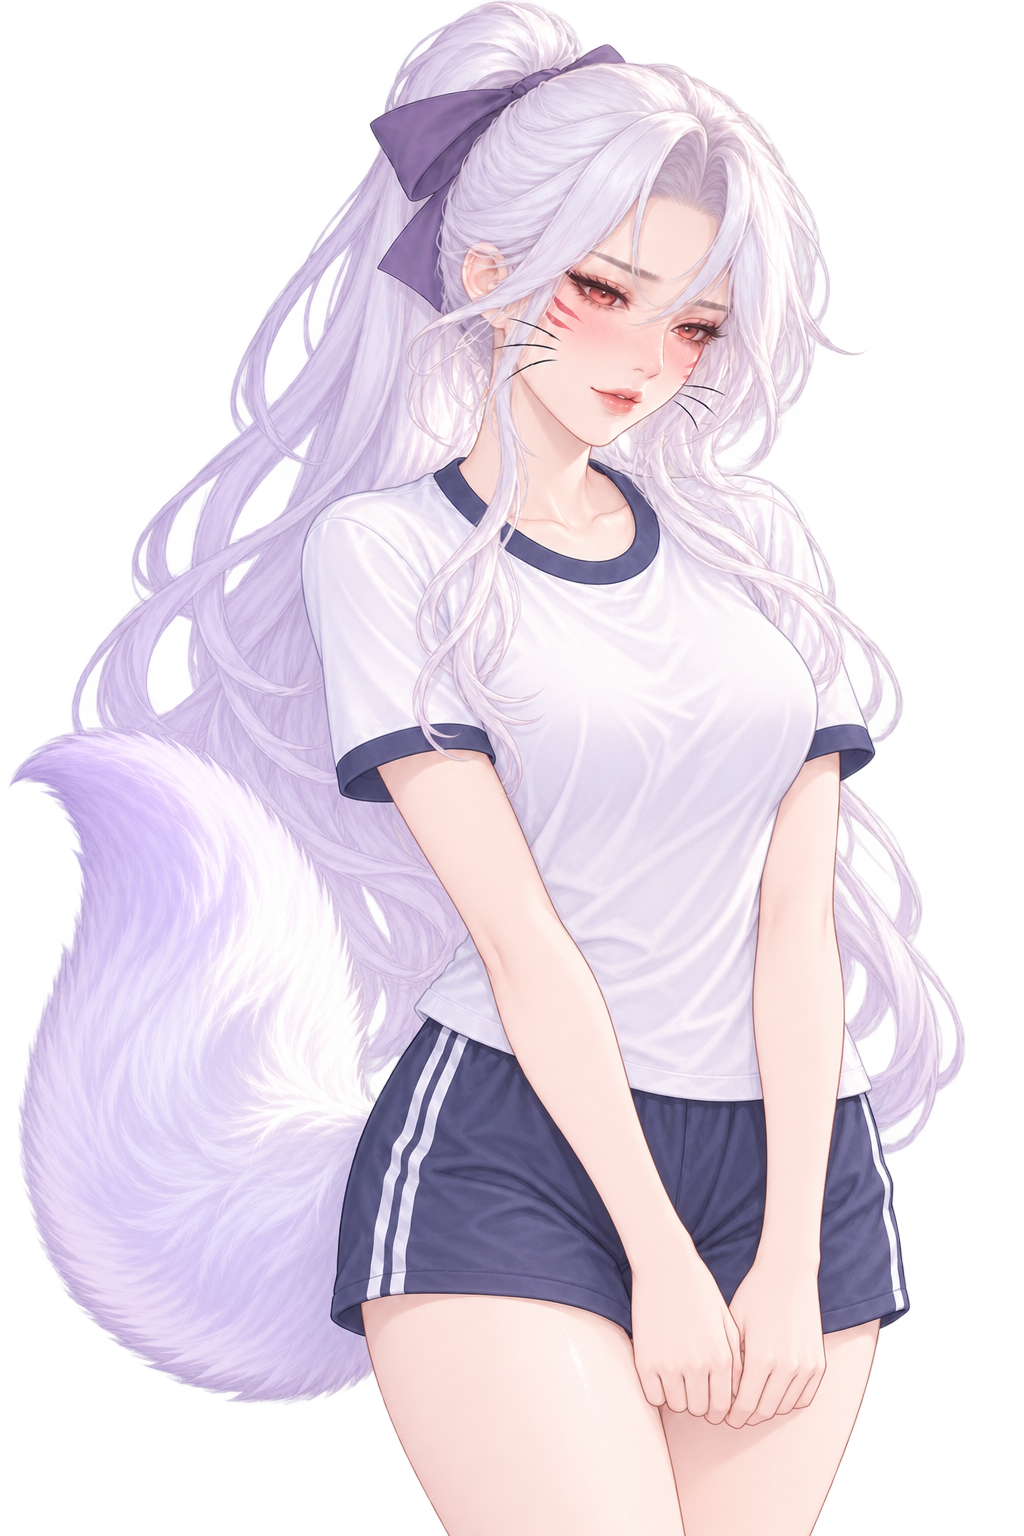
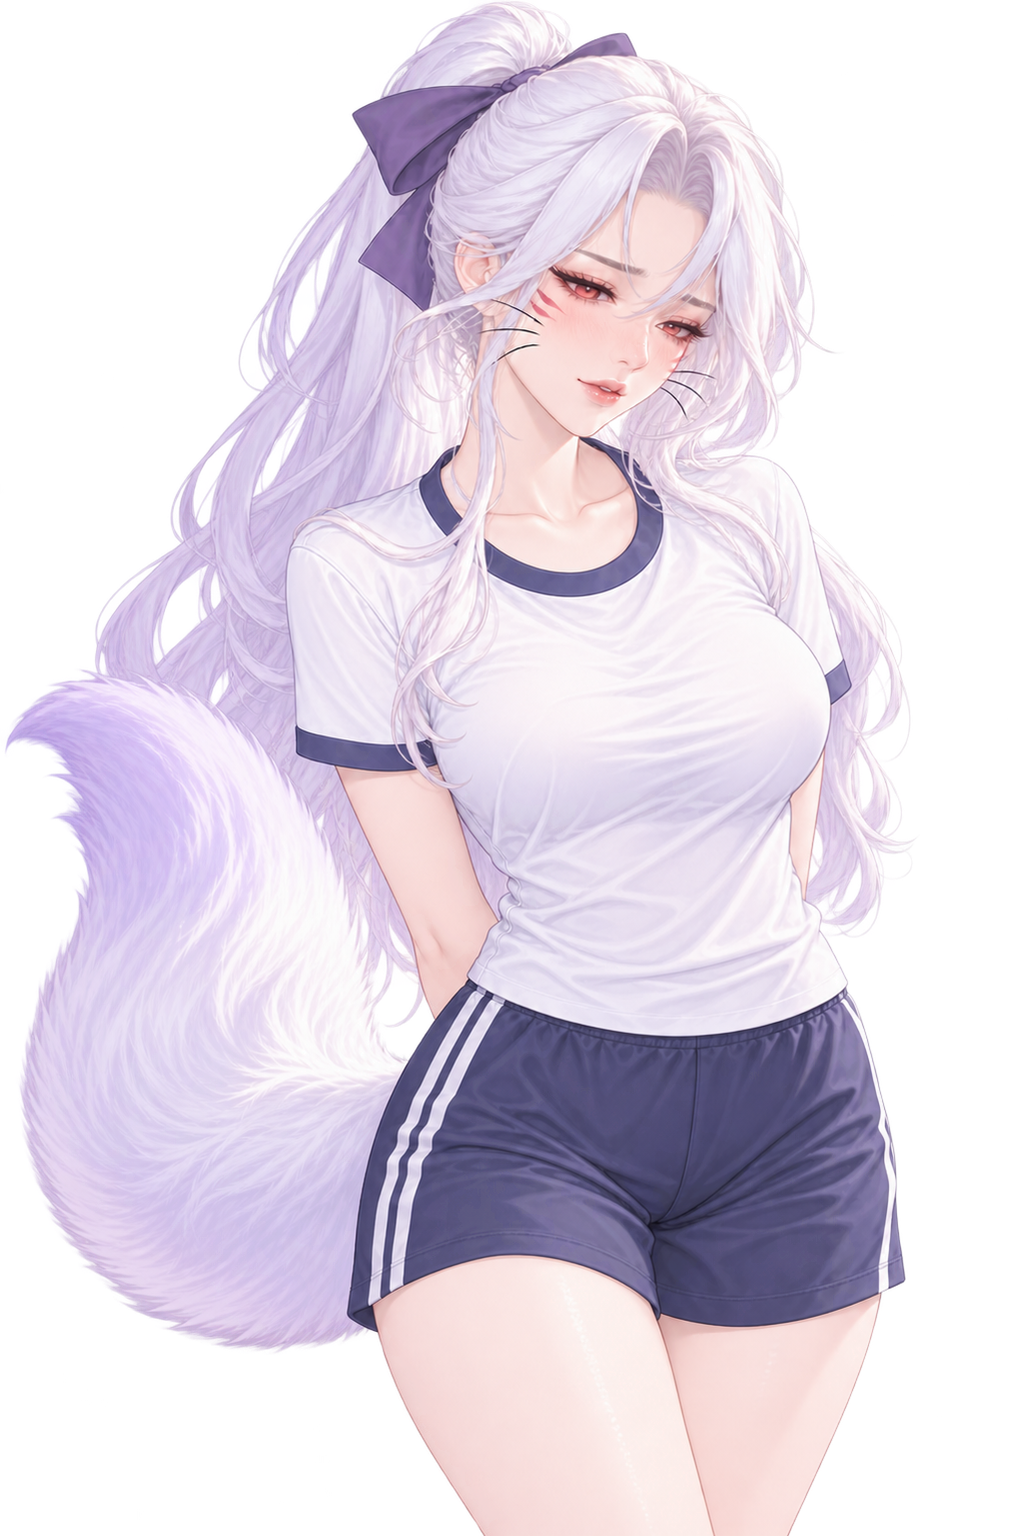
체육복 이미지 여섯 장 슬림핏으로 교체

diff --git a/docs/illustration-replacement-prompts.md b/docs/illustration-replacement-prompts.md
@@ -61,14 +61,14 @@ CG는 공통 CG 블록과 파일별 장면 프롬프트를 이어 붙인다. 무
 
 ### 학교 체육복 G 세트
 
-의상 블록: 흰색 반소매 체육복 상의에 남색 목·소매 배색, 허리선까지 내려오는 깔끔한 슬림 핏. 남색 운동 반바지는 허벅지 중간 길이의 단정한 운동용 핏으로 하고 흰색 측면 줄 두 개를 넣는다. 상의와 하의는 헐렁하거나 풍성하지 않게 몸에 자연스럽게 맞추되, 과하게 조이거나 가슴·엉덩이·허벅지 윤곽을 강조하지 않는다. 노출 없는 불투명한 운동복, 흰 운동화, 인쇄·팀 로고 없음.
+의상 블록: 흰색 반소매 체육복 상의에 남색 목·소매 배색, 몸통과 소매가 체형선을 따라가는 깔끔한 슬림 핏. 남색 운동 반바지는 허벅지 중간 길이로, 다리 라인에 자연스럽게 맞는 운동용 핏과 흰색 측면 줄 두 개를 넣는다. 헐렁하거나 붕 뜨는 천 없이 맞추되 움직임 여유는 두고, 가슴·엉덩이·허벅지 윤곽을 과장하지 않는다. 노출 없는 불투명한 운동복, 흰 운동화, 인쇄·팀 로고 없음.
 
 | 파일 | 개별 표정·포즈 프롬프트 |
 |---|---|
 | [g1.png](../assets/standing/g1.png) | 운동을 마치고 숨을 고르는 차분한 얼굴, 한 손은 옆에 자연스럽게 내리고 다른 손은 어깨를 가볍게 푼다. |
 | [g2.png](../assets/standing/g2.png) | 체육 활동이 즐거운 듯 맑게 웃으며 한 손을 허리 옆에 편하게 둔다. |
 | [g3.png](../assets/standing/g3.png) | 예상 밖의 결과를 듣고 눈을 크게 뜨는 놀란 표정, 입을 작게 벌린다. |
-| [g4.png](../assets/standing/g4.png) | 응원이나 칭찬에 수줍어하며 볼을 붉히고 시선을 아래로 내린다. |
+| [g4.png](../assets/standing/g4.png) | 응원이나 칭찬에 수줍어하며 볼을 붉히고 시선을 아래로 내린다. 양손은 등 뒤에 두어 앞쪽 실루엣을 단정하게 유지한다. |
 | [g5.png](../assets/standing/g5.png) | 경기 결과를 걱정하는 얼굴, 어깨를 살짝 움츠리고 손가락이 닿지 않게 두 손을 몸 앞에서 가볍게 쥔다. |
 | [g6.png](../assets/standing/g6.png) | 장난스럽게 새침한 표정, 고개를 조금 돌려 옆을 바라보며 한 손으로 소매를 정리한다. |
 
